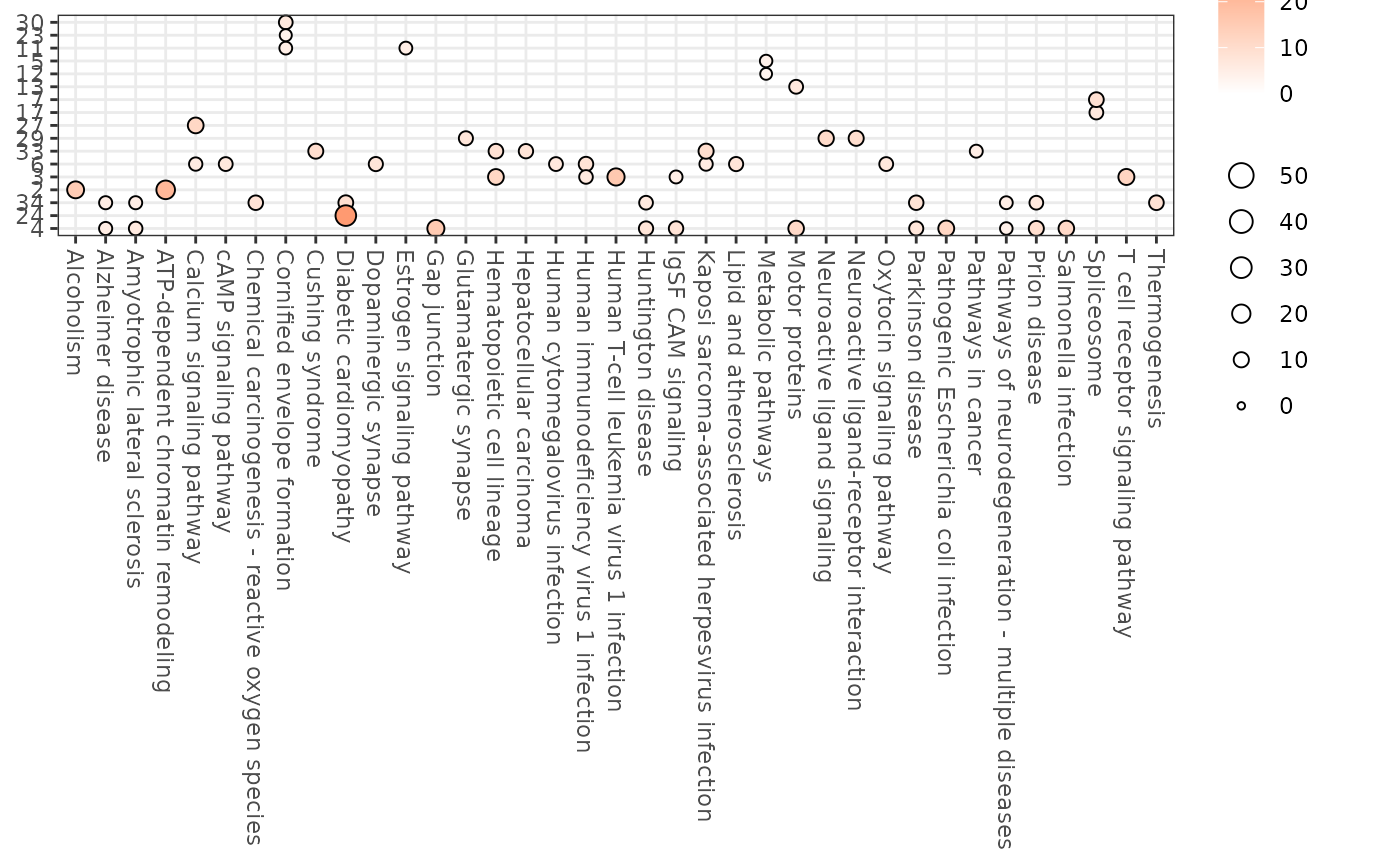
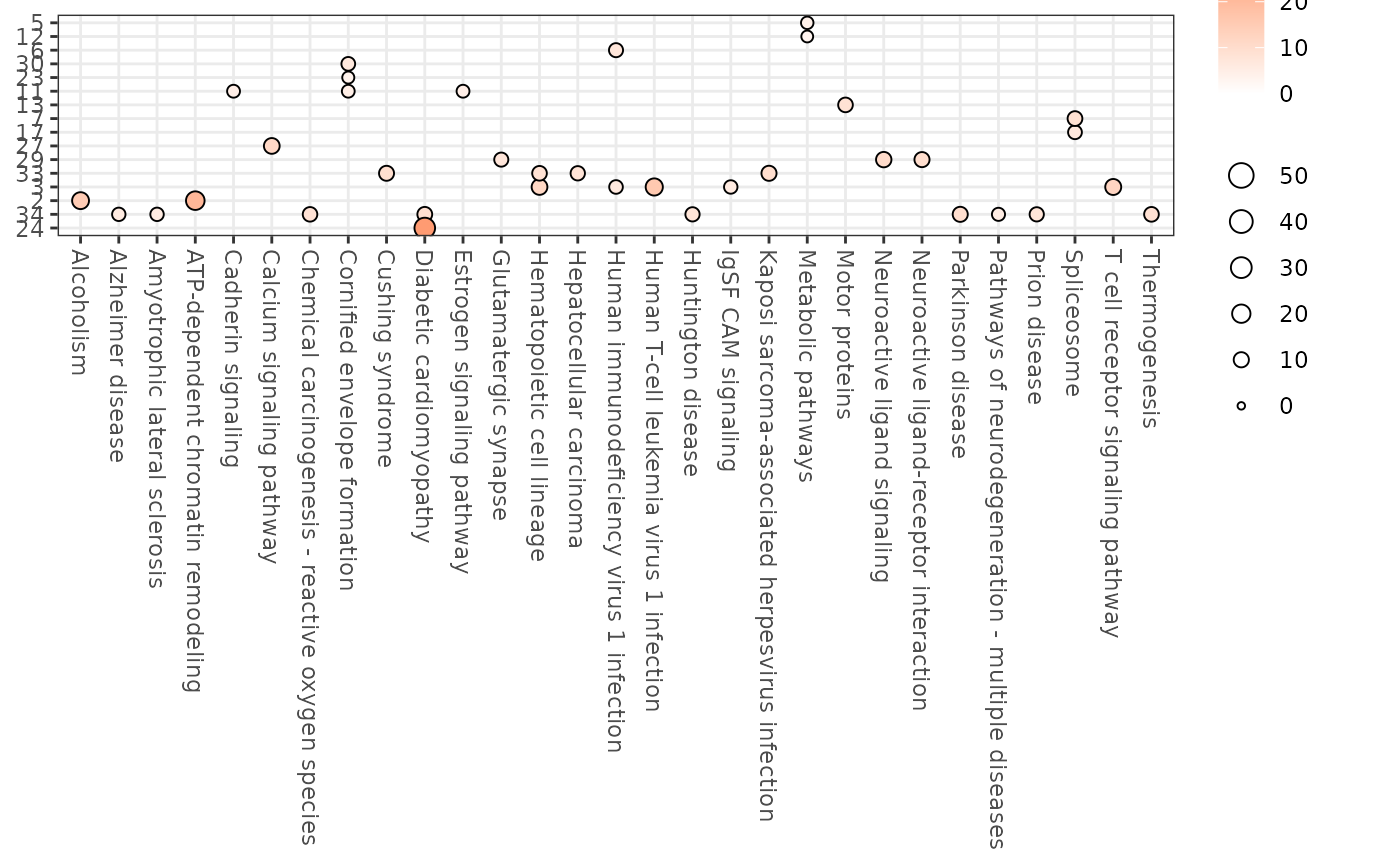
Deploying to gh-pages from @ buenoalvezm/HPAclusteR@75dcef5863ef661dbaa54c94696e2b630d1dce05 🚀

diff --git a/articles/HPAclusteR.html b/articles/HPAclusteR.html
@@ -275,12 +275,12 @@ for further details.</p>
 <span><span class="co">#&gt; <span style="color: #949494;"># A tibble: 6 × 10</span></span></span>
 <span><span class="co">#&gt;   `Cluster ID` Database      `Term ID` Term          GeneRatio BgRatio `P-value`</span></span>
 <span><span class="co">#&gt;   <span style="color: #949494; font-style: italic;">&lt;chr&gt;</span>        <span style="color: #949494; font-style: italic;">&lt;chr&gt;</span>         <span style="color: #949494; font-style: italic;">&lt;chr&gt;</span>     <span style="color: #949494; font-style: italic;">&lt;chr&gt;</span>         <span style="color: #949494; font-style: italic;">&lt;chr&gt;</span>     <span style="color: #949494; font-style: italic;">&lt;chr&gt;</span>       <span style="color: #949494; font-style: italic;">&lt;dbl&gt;</span></span></span>
-<span><span class="co">#&gt; <span style="color: #BCBCBC;">1</span> 11           KEGG pathways hsa04382  Cornified en… 13/24     40/350    8.38<span style="color: #949494;">e</span><span style="color: #BB0000;">-8</span></span></span>
-<span><span class="co">#&gt; <span style="color: #BCBCBC;">2</span> 11           KEGG pathways hsa04915  Estrogen sig… 4/24      12/350    5.86<span style="color: #949494;">e</span><span style="color: #BB0000;">-3</span></span></span>
-<span><span class="co">#&gt; <span style="color: #BCBCBC;">3</span> 12           KEGG pathways hsa01100  Metabolic pa… 9/15      67/350    4.03<span style="color: #949494;">e</span><span style="color: #BB0000;">-4</span></span></span>
-<span><span class="co">#&gt; <span style="color: #BCBCBC;">4</span> 13           KEGG pathways hsa04814  Motor protei… 3/11      14/350    6.99<span style="color: #949494;">e</span><span style="color: #BB0000;">-3</span></span></span>
-<span><span class="co">#&gt; <span style="color: #BCBCBC;">5</span> 17           KEGG pathways hsa03040  Spliceosome   5/20      13/350    3.49<span style="color: #949494;">e</span><span style="color: #BB0000;">-4</span></span></span>
-<span><span class="co">#&gt; <span style="color: #BCBCBC;">6</span> 2            KEGG pathways hsa03082  ATP-dependen… 3/5       10/350    1.64<span style="color: #949494;">e</span><span style="color: #BB0000;">-4</span></span></span>
+<span><span class="co">#&gt; <span style="color: #BCBCBC;">1</span> 11           KEGG pathways hsa04382  Cornified en… 13/24     40/349    8.68<span style="color: #949494;">e</span><span style="color: #BB0000;">-8</span></span></span>
+<span><span class="co">#&gt; <span style="color: #BCBCBC;">2</span> 11           KEGG pathways hsa04519  Cadherin sig… 8/24      24/349    5.37<span style="color: #949494;">e</span><span style="color: #BB0000;">-5</span></span></span>
+<span><span class="co">#&gt; <span style="color: #BCBCBC;">3</span> 11           KEGG pathways hsa04915  Estrogen sig… 4/24      12/349    5.92<span style="color: #949494;">e</span><span style="color: #BB0000;">-3</span></span></span>
+<span><span class="co">#&gt; <span style="color: #BCBCBC;">4</span> 12           KEGG pathways hsa01100  Metabolic pa… 9/15      67/349    4.12<span style="color: #949494;">e</span><span style="color: #BB0000;">-4</span></span></span>
+<span><span class="co">#&gt; <span style="color: #BCBCBC;">5</span> 13           KEGG pathways hsa04814  Motor protei… 3/11      11/349    3.37<span style="color: #949494;">e</span><span style="color: #BB0000;">-3</span></span></span>
+<span><span class="co">#&gt; <span style="color: #BCBCBC;">6</span> 17           KEGG pathways hsa03040  Spliceosome   5/20      13/349    3.53<span style="color: #949494;">e</span><span style="color: #BB0000;">-4</span></span></span>
 <span><span class="co">#&gt; <span style="color: #949494;"># ℹ 3 more variables: `Adjusted P-value` &lt;dbl&gt;, `Gene IDs` &lt;chr&gt;,</span></span></span>
 <span><span class="co">#&gt; <span style="color: #949494;">#   `Gene names` &lt;chr&gt;</span></span></span>
 <span><span class="va">enrichment_res</span><span class="op">$</span><span class="va">bubblemap_kegg</span></span></code></pre></div>
@@ -370,9 +370,9 @@ is to show you how to use the package and its functions.</p>
 </blockquote>
 <div class="sourceCode" id="cb16"><pre class="downlit sourceCode r">
 <code class="sourceCode R"><span><span class="fu"><a href="https://rdrr.io/r/utils/sessionInfo.html" class="external-link">sessionInfo</a></span><span class="op">(</span><span class="op">)</span></span>
-<span><span class="co">#&gt; R version 4.5.2 (2025-10-31)</span></span>
+<span><span class="co">#&gt; R version 4.5.3 (2026-03-11)</span></span>
 <span><span class="co">#&gt; Platform: x86_64-pc-linux-gnu</span></span>
-<span><span class="co">#&gt; Running under: Ubuntu 24.04.3 LTS</span></span>
+<span><span class="co">#&gt; Running under: Ubuntu 24.04.4 LTS</span></span>
 <span><span class="co">#&gt; </span></span>
 <span><span class="co">#&gt; Matrix products: default</span></span>
 <span><span class="co">#&gt; BLAS:   /usr/lib/x86_64-linux-gnu/openblas-pthread/libblas.so.3 </span></span>
@@ -394,77 +394,77 @@ is to show you how to use the package and its functions.</p>
 <span><span class="co">#&gt; [1] HPAclusteR_1.0.0</span></span>
 <span><span class="co">#&gt; </span></span>
 <span><span class="co">#&gt; loaded via a namespace (and not attached):</span></span>
-<span><span class="co">#&gt;   [1] fs_1.6.6                matrixStats_1.5.0       spatstat.sparse_3.1-0  </span></span>
-<span><span class="co">#&gt;   [4] enrichplot_1.30.4       httr_1.4.7              RColorBrewer_1.1-3     </span></span>
-<span><span class="co">#&gt;   [7] prabclus_2.3-5          tools_4.5.2             sctransform_0.4.3      </span></span>
-<span><span class="co">#&gt;  [10] utf8_1.2.6              R6_2.6.1                lazyeval_0.2.2         </span></span>
-<span><span class="co">#&gt;  [13] uwot_0.2.4              withr_3.0.2             sp_2.2-0               </span></span>
-<span><span class="co">#&gt;  [16] GGally_2.4.0            gridExtra_2.3           progressr_0.18.0       </span></span>
-<span><span class="co">#&gt;  [19] cli_3.6.5               Biobase_2.70.0          textshaping_1.0.4      </span></span>
-<span><span class="co">#&gt;  [22] factoextra_1.0.7        spatstat.explore_3.7-0  fastDummies_1.7.5      </span></span>
+<span><span class="co">#&gt;   [1] fs_2.0.1                matrixStats_1.5.0       spatstat.sparse_3.1-0  </span></span>
+<span><span class="co">#&gt;   [4] enrichplot_1.30.5       httr_1.4.8              RColorBrewer_1.1-3     </span></span>
+<span><span class="co">#&gt;   [7] prabclus_2.3-5          tools_4.5.3             sctransform_0.4.3      </span></span>
+<span><span class="co">#&gt;  [10] utf8_1.2.6              R6_2.6.1                lazyeval_0.2.3         </span></span>
+<span><span class="co">#&gt;  [13] uwot_0.2.4              withr_3.0.2             sp_2.2-1               </span></span>
+<span><span class="co">#&gt;  [16] GGally_2.4.0            gridExtra_2.3           progressr_0.19.0       </span></span>
+<span><span class="co">#&gt;  [19] cli_3.6.5               Biobase_2.70.0          textshaping_1.0.5      </span></span>
+<span><span class="co">#&gt;  [22] factoextra_2.0.0        spatstat.explore_3.8-0  fastDummies_1.7.5      </span></span>
 <span><span class="co">#&gt;  [25] network_1.20.0          scatterpie_0.2.6        slam_0.1-55            </span></span>
 <span><span class="co">#&gt;  [28] labeling_0.4.3          sass_0.4.10             diptest_0.77-2         </span></span>
-<span><span class="co">#&gt;  [31] Seurat_5.4.0            tm_0.7-17               S7_0.2.1               </span></span>
-<span><span class="co">#&gt;  [34] robustbase_0.99-7       spatstat.data_3.1-9     readr_2.1.6            </span></span>
+<span><span class="co">#&gt;  [31] Seurat_5.4.0            tm_0.7-18               S7_0.2.1               </span></span>
+<span><span class="co">#&gt;  [34] robustbase_0.99-7       spatstat.data_3.1-9     readr_2.2.0            </span></span>
 <span><span class="co">#&gt;  [37] askpass_1.2.1           ggridges_0.5.7          pbapply_1.7-4          </span></span>
-<span><span class="co">#&gt;  [40] pkgdown_2.2.0           systemfonts_1.3.1       yulab.utils_0.2.4      </span></span>
+<span><span class="co">#&gt;  [40] pkgdown_2.2.0           systemfonts_1.3.2       yulab.utils_0.2.4      </span></span>
 <span><span class="co">#&gt;  [43] gson_0.1.0              DOSE_4.4.0              R.utils_2.13.0         </span></span>
 <span><span class="co">#&gt;  [46] parallelly_1.46.1       RSQLite_2.4.6           treemap_2.4-4          </span></span>
 <span><span class="co">#&gt;  [49] generics_0.1.4          gridGraphics_0.5-1      ica_1.0-3              </span></span>
-<span><span class="co">#&gt;  [52] spatstat.random_3.4-4   dplyr_1.2.0             GO.db_3.22.0           </span></span>
-<span><span class="co">#&gt;  [55] Matrix_1.7-4            S4Vectors_0.48.0        abind_1.4-8            </span></span>
+<span><span class="co">#&gt;  [52] spatstat.random_3.4-5   dplyr_1.2.1             GO.db_3.22.0           </span></span>
+<span><span class="co">#&gt;  [55] Matrix_1.7-4            S4Vectors_0.48.1        abind_1.4-8            </span></span>
 <span><span class="co">#&gt;  [58] R.methodsS3_1.8.2       lifecycle_1.0.5         yaml_2.3.12            </span></span>
-<span><span class="co">#&gt;  [61] qvalue_2.42.0           Rtsne_0.17              grid_4.5.2             </span></span>
+<span><span class="co">#&gt;  [61] qvalue_2.42.0           Rtsne_0.17              grid_4.5.3             </span></span>
 <span><span class="co">#&gt;  [64] blob_1.3.0              promises_1.5.0          crayon_1.5.3           </span></span>
-<span><span class="co">#&gt;  [67] miniUI_0.1.2            ggtangle_0.1.1          lattice_0.22-7         </span></span>
+<span><span class="co">#&gt;  [67] miniUI_0.1.2            ggtangle_0.1.1          lattice_0.22-9         </span></span>
 <span><span class="co">#&gt;  [70] cowplot_1.2.0           KEGGREST_1.50.0         sna_2.8                </span></span>
 <span><span class="co">#&gt;  [73] pillar_1.11.1           knitr_1.51              fgsea_1.36.2           </span></span>
-<span><span class="co">#&gt;  [76] fpc_2.2-14              future.apply_1.20.1     codetools_0.2-20       </span></span>
-<span><span class="co">#&gt;  [79] fastmatch_1.1-8         glue_1.8.0              ggiraph_0.9.4          </span></span>
-<span><span class="co">#&gt;  [82] V8_8.0.1                ggfun_0.2.0             spatstat.univar_3.1-6  </span></span>
+<span><span class="co">#&gt;  [76] fpc_2.2-14              future.apply_1.20.2     codetools_0.2-20       </span></span>
+<span><span class="co">#&gt;  [79] fastmatch_1.1-8         glue_1.8.0              ggiraph_0.9.6          </span></span>
+<span><span class="co">#&gt;  [82] V8_8.0.1                ggfun_0.2.0             spatstat.univar_3.1-7  </span></span>
 <span><span class="co">#&gt;  [85] fontLiberation_0.1.0    pcaMethods_2.2.0        data.table_1.18.2.1    </span></span>
-<span><span class="co">#&gt;  [88] vctrs_0.7.1             png_0.1-8               treeio_1.34.0          </span></span>
+<span><span class="co">#&gt;  [88] vctrs_0.7.2             png_0.1-9               treeio_1.34.0          </span></span>
 <span><span class="co">#&gt;  [91] spam_2.11-3             gtable_0.3.6            kernlab_0.9-33         </span></span>
-<span><span class="co">#&gt;  [94] cachem_1.1.0            xfun_0.56               mime_0.13              </span></span>
-<span><span class="co">#&gt;  [97] Seqinfo_1.0.0           coda_0.19-4.1           survival_3.8-3         </span></span>
+<span><span class="co">#&gt;  [94] cachem_1.1.0            xfun_0.57               mime_0.13              </span></span>
+<span><span class="co">#&gt;  [97] Seqinfo_1.0.0           coda_0.19-4.1           survival_3.8-6         </span></span>
 <span><span class="co">#&gt; [100] pheatmap_1.0.13         fitdistrplus_1.2-6      ROCR_1.0-12            </span></span>
-<span><span class="co">#&gt; [103] nlme_3.1-168            ggtree_4.0.4            bit64_4.6.0-1          </span></span>
+<span><span class="co">#&gt; [103] nlme_3.1-168            ggtree_4.0.5            bit64_4.6.0-1          </span></span>
 <span><span class="co">#&gt; [106] fontquiver_0.2.1        RcppAnnoy_0.0.23        bslib_0.10.0           </span></span>
 <span><span class="co">#&gt; [109] irlba_2.3.7             KernSmooth_2.23-26      otel_0.2.0             </span></span>
 <span><span class="co">#&gt; [112] colorspace_2.1-2        rrvgo_1.22.0            BiocGenerics_0.56.0    </span></span>
-<span><span class="co">#&gt; [115] DBI_1.2.3               nnet_7.3-20             tidyselect_1.2.1       </span></span>
-<span><span class="co">#&gt; [118] bit_4.6.0               compiler_4.5.2          curl_7.0.0             </span></span>
+<span><span class="co">#&gt; [115] DBI_1.3.0               nnet_7.3-20             tidyselect_1.2.1       </span></span>
+<span><span class="co">#&gt; [118] bit_4.6.0               compiler_4.5.3          curl_7.0.0             </span></span>
 <span><span class="co">#&gt; [121] xml2_1.5.2              NLP_0.3-2               desc_1.4.3             </span></span>
 <span><span class="co">#&gt; [124] fontBitstreamVera_0.1.1 plotly_4.12.0           scales_1.4.0           </span></span>
 <span><span class="co">#&gt; [127] DEoptimR_1.1-4          lmtest_0.9-40           rappdirs_0.3.4         </span></span>
 <span><span class="co">#&gt; [130] stringr_1.6.0           digest_0.6.39           goftest_1.2-3          </span></span>
-<span><span class="co">#&gt; [133] spatstat.utils_3.2-1    rmarkdown_2.30          XVector_0.50.0         </span></span>
+<span><span class="co">#&gt; [133] spatstat.utils_3.2-2    rmarkdown_2.31          XVector_0.50.0         </span></span>
 <span><span class="co">#&gt; [136] htmltools_0.5.9         pkgconfig_2.0.3         umap_0.2.10.0          </span></span>
-<span><span class="co">#&gt; [139] fastmap_1.2.0           rlang_1.1.7             htmlwidgets_1.6.4      </span></span>
-<span><span class="co">#&gt; [142] shiny_1.12.1            farver_2.1.2            jquerylib_0.1.4        </span></span>
+<span><span class="co">#&gt; [139] fastmap_1.2.0           rlang_1.2.0             htmlwidgets_1.6.4      </span></span>
+<span><span class="co">#&gt; [142] shiny_1.13.0            farver_2.1.2            jquerylib_0.1.4        </span></span>
 <span><span class="co">#&gt; [145] zoo_1.8-15              jsonlite_2.0.0          statnet.common_4.13.0  </span></span>
 <span><span class="co">#&gt; [148] BiocParallel_1.44.0     mclust_6.1.2            GOSemSim_2.36.0        </span></span>
-<span><span class="co">#&gt; [151] R.oo_1.27.1             magrittr_2.0.4          modeltools_0.2-24      </span></span>
+<span><span class="co">#&gt; [151] R.oo_1.27.1             magrittr_2.0.5          modeltools_0.2-24      </span></span>
 <span><span class="co">#&gt; [154] ggplotify_0.1.3         wordcloud_2.6           dotCall64_1.2          </span></span>
 <span><span class="co">#&gt; [157] patchwork_1.3.2         Rcpp_1.1.1              ape_5.8-1              </span></span>
-<span><span class="co">#&gt; [160] ggnewscale_0.5.2        gdtools_0.5.0           reticulate_1.44.1      </span></span>
+<span><span class="co">#&gt; [160] ggnewscale_0.5.2        gdtools_0.5.0           reticulate_1.45.0      </span></span>
 <span><span class="co">#&gt; [163] stringi_1.8.7           MASS_7.3-65             org.Hs.eg.db_3.22.0    </span></span>
-<span><span class="co">#&gt; [166] plyr_1.8.9              flexmix_2.3-20          ggstats_0.12.0         </span></span>
-<span><span class="co">#&gt; [169] parallel_4.5.2          listenv_0.10.0          ggrepel_0.9.6          </span></span>
-<span><span class="co">#&gt; [172] deldir_2.0-4            Biostrings_2.78.0       splines_4.5.2          </span></span>
-<span><span class="co">#&gt; [175] tensor_1.5.1            hms_1.1.4               igraph_2.2.1           </span></span>
-<span><span class="co">#&gt; [178] spatstat.geom_3.7-0     RcppHNSW_0.6.0          reshape2_1.4.5         </span></span>
-<span><span class="co">#&gt; [181] stats4_4.5.2            evaluate_1.0.5          SeuratObject_5.3.0     </span></span>
-<span><span class="co">#&gt; [184] tzdb_0.5.0              tweenr_2.0.3            httpuv_1.6.16          </span></span>
-<span><span class="co">#&gt; [187] openssl_2.3.4           RANN_2.6.2              tidyr_1.3.2            </span></span>
-<span><span class="co">#&gt; [190] purrr_1.2.1             polyclip_1.10-7         future_1.69.0          </span></span>
-<span><span class="co">#&gt; [193] clue_0.3-66             scattermore_1.2         ggplot2_4.0.2          </span></span>
-<span><span class="co">#&gt; [196] gridBase_0.4-7          ggforce_0.5.0           xtable_1.8-4           </span></span>
+<span><span class="co">#&gt; [166] plyr_1.8.9              flexmix_2.3-20          ggstats_0.13.0         </span></span>
+<span><span class="co">#&gt; [169] parallel_4.5.3          listenv_0.10.1          ggrepel_0.9.8          </span></span>
+<span><span class="co">#&gt; [172] deldir_2.0-4            Biostrings_2.78.0       splines_4.5.3          </span></span>
+<span><span class="co">#&gt; [175] tensor_1.5.1            hms_1.1.4               igraph_2.2.2           </span></span>
+<span><span class="co">#&gt; [178] spatstat.geom_3.7-3     RcppHNSW_0.6.0          reshape2_1.4.5         </span></span>
+<span><span class="co">#&gt; [181] stats4_4.5.3            evaluate_1.0.5          SeuratObject_5.3.0     </span></span>
+<span><span class="co">#&gt; [184] tzdb_0.5.0              tweenr_2.0.3            httpuv_1.6.17          </span></span>
+<span><span class="co">#&gt; [187] openssl_2.3.5           RANN_2.6.2              tidyr_1.3.2            </span></span>
+<span><span class="co">#&gt; [190] purrr_1.2.1             polyclip_1.10-7         future_1.70.0          </span></span>
+<span><span class="co">#&gt; [193] clue_0.3-68             scattermore_1.2         ggplot2_4.0.2          </span></span>
+<span><span class="co">#&gt; [196] gridBase_0.4-7          ggforce_0.5.0           xtable_1.8-8           </span></span>
 <span><span class="co">#&gt; [199] RSpectra_0.16-2         tidytree_0.4.7          tidydr_0.0.6           </span></span>
-<span><span class="co">#&gt; [202] later_1.4.5             viridisLite_0.4.3       class_7.3-23           </span></span>
-<span><span class="co">#&gt; [205] ragg_1.5.0              tibble_3.3.1            clusterProfiler_4.18.4 </span></span>
+<span><span class="co">#&gt; [202] later_1.4.8             viridisLite_0.4.3       class_7.3-23           </span></span>
+<span><span class="co">#&gt; [205] ragg_1.5.2              tibble_3.3.1            clusterProfiler_4.18.4 </span></span>
 <span><span class="co">#&gt; [208] aplot_0.2.9             memoise_2.0.1           AnnotationDbi_1.72.0   </span></span>
-<span><span class="co">#&gt; [211] IRanges_2.44.0          cluster_2.1.8.1         globals_0.19.0         </span></span>
+<span><span class="co">#&gt; [211] IRanges_2.44.0          cluster_2.1.8.2         globals_0.19.1         </span></span>
 <span><span class="co">#&gt; [214] concaveman_1.2.0</span></span></code></pre></div>
 </div>
   </main><aside class="col-md-3"><nav id="toc" aria-label="Table of contents"><h2>On this page</h2>

diff --git a/reference/hc_annotate.html b/reference/hc_annotate.html
@@ -145,18 +145,19 @@ Set verbose = TRUE to monitor the progress.</p>
 <span class="r-msg co"><span class="r-pr">#&gt;</span> No KEGG enrichment result for cluster: 9</span>
 <span class="r-msg co"><span class="r-pr">#&gt;</span> No KEGG enrichment result for cluster: 31</span>
 <span class="r-msg co"><span class="r-pr">#&gt;</span> No KEGG enrichment result for cluster: 23</span>
+<span class="r-msg co"><span class="r-pr">#&gt;</span> No KEGG enrichment result for cluster: 15</span>
 <span class="r-msg co"><span class="r-pr">#&gt;</span> No KEGG enrichment result for cluster: 24</span>
 <span class="r-msg co"><span class="r-pr">#&gt;</span> No KEGG enrichment result for cluster: 8</span>
 <span class="r-msg co"><span class="r-pr">#&gt;</span> No KEGG enrichment result for cluster: 28</span>
 <span class="r-msg co"><span class="r-pr">#&gt;</span> No KEGG enrichment result for cluster: 10</span>
 <span class="r-msg co"><span class="r-pr">#&gt;</span> No KEGG enrichment result for cluster: 1</span>
-<span class="r-msg co"><span class="r-pr">#&gt;</span> No KEGG enrichment result for cluster: 20</span>
 <span class="r-msg co"><span class="r-pr">#&gt;</span> No KEGG enrichment result for cluster: 6</span>
 <span class="r-msg co"><span class="r-pr">#&gt;</span> No KEGG enrichment result for cluster: 25</span>
 <span class="r-msg co"><span class="r-pr">#&gt;</span> No KEGG enrichment result for cluster: 4</span>
 <span class="r-msg co"><span class="r-pr">#&gt;</span> No KEGG enrichment result for cluster: 11</span>
 <span class="r-msg co"><span class="r-pr">#&gt;</span> No KEGG enrichment result for cluster: 18</span>
 <span class="r-msg co"><span class="r-pr">#&gt;</span> No KEGG enrichment result for cluster: 30</span>
+<span class="r-msg co"><span class="r-pr">#&gt;</span> No KEGG enrichment result for cluster: 16</span>
 <span class="r-msg co"><span class="r-pr">#&gt;</span> 'select()' returned 1:many mapping between keys and columns</span>
 <span class="r-msg co"><span class="r-pr">#&gt;</span> KEGG enrichment done.</span>
 <span class="r-msg co"><span class="r-pr">#&gt;</span> 'select()' returned 1:many mapping between keys and columns</span>
@@ -164,12 +165,12 @@ Set verbose = TRUE to monitor the progress.</p>
 <span class="r-out co"><span class="r-pr">#&gt;</span> <span style="color: #949494;"># A tibble: 6 × 10</span></span>
 <span class="r-out co"><span class="r-pr">#&gt;</span>   `Cluster ID` Database      `Term ID` Term          GeneRatio BgRatio `P-value`</span>
 <span class="r-out co"><span class="r-pr">#&gt;</span>   <span style="color: #949494; font-style: italic;">&lt;chr&gt;</span>        <span style="color: #949494; font-style: italic;">&lt;chr&gt;</span>         <span style="color: #949494; font-style: italic;">&lt;chr&gt;</span>     <span style="color: #949494; font-style: italic;">&lt;chr&gt;</span>         <span style="color: #949494; font-style: italic;">&lt;chr&gt;</span>     <span style="color: #949494; font-style: italic;">&lt;chr&gt;</span>       <span style="color: #949494; font-style: italic;">&lt;dbl&gt;</span></span>
-<span class="r-out co"><span class="r-pr">#&gt;</span> <span style="color: #BCBCBC;">1</span> 14           KEGG pathways hsa03040  Spliceosome   8/27      13/350    4.30<span style="color: #949494;">e</span><span style="color: #BB0000;">-7</span></span>
-<span class="r-out co"><span class="r-pr">#&gt;</span> <span style="color: #BCBCBC;">2</span> 15           KEGG pathways hsa01100  Metabolic pa… 6/11      67/350    8.29<span style="color: #949494;">e</span><span style="color: #BB0000;">-3</span></span>
-<span class="r-out co"><span class="r-pr">#&gt;</span> <span style="color: #BCBCBC;">3</span> 16           KEGG pathways hsa05020  Prion disease 5/9       20/350    3.96<span style="color: #949494;">e</span><span style="color: #BB0000;">-5</span></span>
-<span class="r-out co"><span class="r-pr">#&gt;</span> <span style="color: #BCBCBC;">4</span> 16           KEGG pathways hsa04540  Gap junction  4/9       10/350    4.01<span style="color: #949494;">e</span><span style="color: #BB0000;">-5</span></span>
-<span class="r-out co"><span class="r-pr">#&gt;</span> <span style="color: #BCBCBC;">5</span> 16           KEGG pathways hsa05130  Pathogenic E… 4/9       13/350    1.32<span style="color: #949494;">e</span><span style="color: #BB0000;">-4</span></span>
-<span class="r-out co"><span class="r-pr">#&gt;</span> <span style="color: #BCBCBC;">6</span> 16           KEGG pathways hsa04814  Motor protei… 4/9       14/350    1.83<span style="color: #949494;">e</span><span style="color: #BB0000;">-4</span></span>
+<span class="r-out co"><span class="r-pr">#&gt;</span> <span style="color: #BCBCBC;">1</span> 14           KEGG pathways hsa03040  Spliceosome   8/27      13/349   4.40<span style="color: #949494;">e</span><span style="color: #BB0000;">- 7</span></span>
+<span class="r-out co"><span class="r-pr">#&gt;</span> <span style="color: #BCBCBC;">2</span> 17           KEGG pathways hsa04382  Cornified en… 14/16     40/349   6.84<span style="color: #949494;">e</span><span style="color: #BB0000;">-13</span></span>
+<span class="r-out co"><span class="r-pr">#&gt;</span> <span style="color: #BCBCBC;">3</span> 2            KEGG pathways hsa04660  T cell recep… 6/11      13/349   3.02<span style="color: #949494;">e</span><span style="color: #BB0000;">- 7</span></span>
+<span class="r-out co"><span class="r-pr">#&gt;</span> <span style="color: #BCBCBC;">4</span> 2            KEGG pathways hsa04640  Hematopoieti… 4/11      11/349   1.60<span style="color: #949494;">e</span><span style="color: #BB0000;">- 4</span></span>
+<span class="r-out co"><span class="r-pr">#&gt;</span> <span style="color: #BCBCBC;">5</span> 2            KEGG pathways hsa05166  Human T-cell… 4/11      12/349   2.36<span style="color: #949494;">e</span><span style="color: #BB0000;">- 4</span></span>
+<span class="r-out co"><span class="r-pr">#&gt;</span> <span style="color: #BCBCBC;">6</span> 2            KEGG pathways hsa05170  Human immuno… 3/11      15/349   8.65<span style="color: #949494;">e</span><span style="color: #BB0000;">- 3</span></span>
 <span class="r-out co"><span class="r-pr">#&gt;</span> <span style="color: #949494;"># ℹ 3 more variables: `Adjusted P-value` &lt;dbl&gt;, `Gene IDs` &lt;chr&gt;,</span></span>
 <span class="r-out co"><span class="r-pr">#&gt;</span> <span style="color: #949494;">#   `Gene names` &lt;chr&gt;</span></span>
 </code></pre></div>

diff --git a/articles/HPAclusteR.md b/articles/HPAclusteR.md
@@ -214,12 +214,12 @@ head(enrichment_res$enrichment)
 #> # A tibble: 6 × 10
 #>   `Cluster ID` Database      `Term ID` Term          GeneRatio BgRatio `P-value`
 #>   <chr>        <chr>         <chr>     <chr>         <chr>     <chr>       <dbl>
-#> 1 11           KEGG pathways hsa04382  Cornified en… 13/24     40/350    8.38e-8
-#> 2 11           KEGG pathways hsa04915  Estrogen sig… 4/24      12/350    5.86e-3
-#> 3 12           KEGG pathways hsa01100  Metabolic pa… 9/15      67/350    4.03e-4
-#> 4 13           KEGG pathways hsa04814  Motor protei… 3/11      14/350    6.99e-3
-#> 5 17           KEGG pathways hsa03040  Spliceosome   5/20      13/350    3.49e-4
-#> 6 2            KEGG pathways hsa03082  ATP-dependen… 3/5       10/350    1.64e-4
+#> 1 11           KEGG pathways hsa04382  Cornified en… 13/24     40/349    8.68e-8
+#> 2 11           KEGG pathways hsa04519  Cadherin sig… 8/24      24/349    5.37e-5
+#> 3 11           KEGG pathways hsa04915  Estrogen sig… 4/24      12/349    5.92e-3
+#> 4 12           KEGG pathways hsa01100  Metabolic pa… 9/15      67/349    4.12e-4
+#> 5 13           KEGG pathways hsa04814  Motor protei… 3/11      11/349    3.37e-3
+#> 6 17           KEGG pathways hsa03040  Spliceosome   5/20      13/349    3.53e-4
 #> # ℹ 3 more variables: `Adjusted P-value` <dbl>, `Gene IDs` <chr>,
 #> #   `Gene names` <chr>
 enrichment_res$bubblemap_kegg
@@ -331,9 +331,9 @@ transcriptomics data!
 
 ``` r
 sessionInfo()
-#> R version 4.5.2 (2025-10-31)
+#> R version 4.5.3 (2026-03-11)
 #> Platform: x86_64-pc-linux-gnu
-#> Running under: Ubuntu 24.04.3 LTS
+#> Running under: Ubuntu 24.04.4 LTS
 #> 
 #> Matrix products: default
 #> BLAS:   /usr/lib/x86_64-linux-gnu/openblas-pthread/libblas.so.3 
@@ -355,76 +355,76 @@ sessionInfo()
 #> [1] HPAclusteR_1.0.0
 #> 
 #> loaded via a namespace (and not attached):
-#>   [1] fs_1.6.6                matrixStats_1.5.0       spatstat.sparse_3.1-0  
-#>   [4] enrichplot_1.30.4       httr_1.4.7              RColorBrewer_1.1-3     
-#>   [7] prabclus_2.3-5          tools_4.5.2             sctransform_0.4.3      
-#>  [10] utf8_1.2.6              R6_2.6.1                lazyeval_0.2.2         
-#>  [13] uwot_0.2.4              withr_3.0.2             sp_2.2-0               
-#>  [16] GGally_2.4.0            gridExtra_2.3           progressr_0.18.0       
-#>  [19] cli_3.6.5               Biobase_2.70.0          textshaping_1.0.4      
-#>  [22] factoextra_1.0.7        spatstat.explore_3.7-0  fastDummies_1.7.5      
+#>   [1] fs_2.0.1                matrixStats_1.5.0       spatstat.sparse_3.1-0  
+#>   [4] enrichplot_1.30.5       httr_1.4.8              RColorBrewer_1.1-3     
+#>   [7] prabclus_2.3-5          tools_4.5.3             sctransform_0.4.3      
+#>  [10] utf8_1.2.6              R6_2.6.1                lazyeval_0.2.3         
+#>  [13] uwot_0.2.4              withr_3.0.2             sp_2.2-1               
+#>  [16] GGally_2.4.0            gridExtra_2.3           progressr_0.19.0       
+#>  [19] cli_3.6.5               Biobase_2.70.0          textshaping_1.0.5      
+#>  [22] factoextra_2.0.0        spatstat.explore_3.8-0  fastDummies_1.7.5      
 #>  [25] network_1.20.0          scatterpie_0.2.6        slam_0.1-55            
 #>  [28] labeling_0.4.3          sass_0.4.10             diptest_0.77-2         
-#>  [31] Seurat_5.4.0            tm_0.7-17               S7_0.2.1               
-#>  [34] robustbase_0.99-7       spatstat.data_3.1-9     readr_2.1.6            
+#>  [31] Seurat_5.4.0            tm_0.7-18               S7_0.2.1               
+#>  [34] robustbase_0.99-7       spatstat.data_3.1-9     readr_2.2.0            
 #>  [37] askpass_1.2.1           ggridges_0.5.7          pbapply_1.7-4          
-#>  [40] pkgdown_2.2.0           systemfonts_1.3.1       yulab.utils_0.2.4      
+#>  [40] pkgdown_2.2.0           systemfonts_1.3.2       yulab.utils_0.2.4      
 #>  [43] gson_0.1.0              DOSE_4.4.0              R.utils_2.13.0         
 #>  [46] parallelly_1.46.1       RSQLite_2.4.6           treemap_2.4-4          
 #>  [49] generics_0.1.4          gridGraphics_0.5-1      ica_1.0-3              
-#>  [52] spatstat.random_3.4-4   dplyr_1.2.0             GO.db_3.22.0           
-#>  [55] Matrix_1.7-4            S4Vectors_0.48.0        abind_1.4-8            
+#>  [52] spatstat.random_3.4-5   dplyr_1.2.1             GO.db_3.22.0           
+#>  [55] Matrix_1.7-4            S4Vectors_0.48.1        abind_1.4-8            
 #>  [58] R.methodsS3_1.8.2       lifecycle_1.0.5         yaml_2.3.12            
-#>  [61] qvalue_2.42.0           Rtsne_0.17              grid_4.5.2             
+#>  [61] qvalue_2.42.0           Rtsne_0.17              grid_4.5.3             
 #>  [64] blob_1.3.0              promises_1.5.0          crayon_1.5.3           
-#>  [67] miniUI_0.1.2            ggtangle_0.1.1          lattice_0.22-7         
+#>  [67] miniUI_0.1.2            ggtangle_0.1.1          lattice_0.22-9         
 #>  [70] cowplot_1.2.0           KEGGREST_1.50.0         sna_2.8                
 #>  [73] pillar_1.11.1           knitr_1.51              fgsea_1.36.2           
-#>  [76] fpc_2.2-14              future.apply_1.20.1     codetools_0.2-20       
-#>  [79] fastmatch_1.1-8         glue_1.8.0              ggiraph_0.9.4          
-#>  [82] V8_8.0.1                ggfun_0.2.0             spatstat.univar_3.1-6  
+#>  [76] fpc_2.2-14              future.apply_1.20.2     codetools_0.2-20       
+#>  [79] fastmatch_1.1-8         glue_1.8.0              ggiraph_0.9.6          
+#>  [82] V8_8.0.1                ggfun_0.2.0             spatstat.univar_3.1-7  
 #>  [85] fontLiberation_0.1.0    pcaMethods_2.2.0        data.table_1.18.2.1    
-#>  [88] vctrs_0.7.1             png_0.1-8               treeio_1.34.0          
+#>  [88] vctrs_0.7.2             png_0.1-9               treeio_1.34.0          
 #>  [91] spam_2.11-3             gtable_0.3.6            kernlab_0.9-33         
-#>  [94] cachem_1.1.0            xfun_0.56               mime_0.13              
-#>  [97] Seqinfo_1.0.0           coda_0.19-4.1           survival_3.8-3         
+#>  [94] cachem_1.1.0            xfun_0.57               mime_0.13              
+#>  [97] Seqinfo_1.0.0           coda_0.19-4.1           survival_3.8-6         
 #> [100] pheatmap_1.0.13         fitdistrplus_1.2-6      ROCR_1.0-12            
-#> [103] nlme_3.1-168            ggtree_4.0.4            bit64_4.6.0-1          
+#> [103] nlme_3.1-168            ggtree_4.0.5            bit64_4.6.0-1          
 #> [106] fontquiver_0.2.1        RcppAnnoy_0.0.23        bslib_0.10.0           
 #> [109] irlba_2.3.7             KernSmooth_2.23-26      otel_0.2.0             
 #> [112] colorspace_2.1-2        rrvgo_1.22.0            BiocGenerics_0.56.0    
-#> [115] DBI_1.2.3               nnet_7.3-20             tidyselect_1.2.1       
-#> [118] bit_4.6.0               compiler_4.5.2          curl_7.0.0             
+#> [115] DBI_1.3.0               nnet_7.3-20             tidyselect_1.2.1       
+#> [118] bit_4.6.0               compiler_4.5.3          curl_7.0.0             
 #> [121] xml2_1.5.2              NLP_0.3-2               desc_1.4.3             
 #> [124] fontBitstreamVera_0.1.1 plotly_4.12.0           scales_1.4.0           
 #> [127] DEoptimR_1.1-4          lmtest_0.9-40           rappdirs_0.3.4         
 #> [130] stringr_1.6.0           digest_0.6.39           goftest_1.2-3          
-#> [133] spatstat.utils_3.2-1    rmarkdown_2.30          XVector_0.50.0         
+#> [133] spatstat.utils_3.2-2    rmarkdown_2.31          XVector_0.50.0         
 #> [136] htmltools_0.5.9         pkgconfig_2.0.3         umap_0.2.10.0          
-#> [139] fastmap_1.2.0           rlang_1.1.7             htmlwidgets_1.6.4      
-#> [142] shiny_1.12.1            farver_2.1.2            jquerylib_0.1.4        
+#> [139] fastmap_1.2.0           rlang_1.2.0             htmlwidgets_1.6.4      
+#> [142] shiny_1.13.0            farver_2.1.2            jquerylib_0.1.4        
 #> [145] zoo_1.8-15              jsonlite_2.0.0          statnet.common_4.13.0  
 #> [148] BiocParallel_1.44.0     mclust_6.1.2            GOSemSim_2.36.0        
-#> [151] R.oo_1.27.1             magrittr_2.0.4          modeltools_0.2-24      
+#> [151] R.oo_1.27.1             magrittr_2.0.5          modeltools_0.2-24      
 #> [154] ggplotify_0.1.3         wordcloud_2.6           dotCall64_1.2          
 #> [157] patchwork_1.3.2         Rcpp_1.1.1              ape_5.8-1              
-#> [160] ggnewscale_0.5.2        gdtools_0.5.0           reticulate_1.44.1      
+#> [160] ggnewscale_0.5.2        gdtools_0.5.0           reticulate_1.45.0      
 #> [163] stringi_1.8.7           MASS_7.3-65             org.Hs.eg.db_3.22.0    
-#> [166] plyr_1.8.9              flexmix_2.3-20          ggstats_0.12.0         
-#> [169] parallel_4.5.2          listenv_0.10.0          ggrepel_0.9.6          
-#> [172] deldir_2.0-4            Biostrings_2.78.0       splines_4.5.2          
-#> [175] tensor_1.5.1            hms_1.1.4               igraph_2.2.1           
-#> [178] spatstat.geom_3.7-0     RcppHNSW_0.6.0          reshape2_1.4.5         
-#> [181] stats4_4.5.2            evaluate_1.0.5          SeuratObject_5.3.0     
-#> [184] tzdb_0.5.0              tweenr_2.0.3            httpuv_1.6.16          
-#> [187] openssl_2.3.4           RANN_2.6.2              tidyr_1.3.2            
-#> [190] purrr_1.2.1             polyclip_1.10-7         future_1.69.0          
-#> [193] clue_0.3-66             scattermore_1.2         ggplot2_4.0.2          
-#> [196] gridBase_0.4-7          ggforce_0.5.0           xtable_1.8-4           
+#> [166] plyr_1.8.9              flexmix_2.3-20          ggstats_0.13.0         
+#> [169] parallel_4.5.3          listenv_0.10.1          ggrepel_0.9.8          
+#> [172] deldir_2.0-4            Biostrings_2.78.0       splines_4.5.3          
+#> [175] tensor_1.5.1            hms_1.1.4               igraph_2.2.2           
+#> [178] spatstat.geom_3.7-3     RcppHNSW_0.6.0          reshape2_1.4.5         
+#> [181] stats4_4.5.3            evaluate_1.0.5          SeuratObject_5.3.0     
+#> [184] tzdb_0.5.0              tweenr_2.0.3            httpuv_1.6.17          
+#> [187] openssl_2.3.5           RANN_2.6.2              tidyr_1.3.2            
+#> [190] purrr_1.2.1             polyclip_1.10-7         future_1.70.0          
+#> [193] clue_0.3-68             scattermore_1.2         ggplot2_4.0.2          
+#> [196] gridBase_0.4-7          ggforce_0.5.0           xtable_1.8-8           
 #> [199] RSpectra_0.16-2         tidytree_0.4.7          tidydr_0.0.6           
-#> [202] later_1.4.5             viridisLite_0.4.3       class_7.3-23           
-#> [205] ragg_1.5.0              tibble_3.3.1            clusterProfiler_4.18.4 
+#> [202] later_1.4.8             viridisLite_0.4.3       class_7.3-23           
+#> [205] ragg_1.5.2              tibble_3.3.1            clusterProfiler_4.18.4 
 #> [208] aplot_0.2.9             memoise_2.0.1           AnnotationDbi_1.72.0   
-#> [211] IRanges_2.44.0          cluster_2.1.8.1         globals_0.19.0         
+#> [211] IRanges_2.44.0          cluster_2.1.8.2         globals_0.19.1         
 #> [214] concaveman_1.2.0
 ```

diff --git a/reference/hc_annotate.md b/reference/hc_annotate.md
@@ -133,18 +133,19 @@ enrichment_results <- hc_annotate(adata_res, dbs = "KEGG")
 #> No KEGG enrichment result for cluster: 9
 #> No KEGG enrichment result for cluster: 31
 #> No KEGG enrichment result for cluster: 23
+#> No KEGG enrichment result for cluster: 15
 #> No KEGG enrichment result for cluster: 24
 #> No KEGG enrichment result for cluster: 8
 #> No KEGG enrichment result for cluster: 28
 #> No KEGG enrichment result for cluster: 10
 #> No KEGG enrichment result for cluster: 1
-#> No KEGG enrichment result for cluster: 20
 #> No KEGG enrichment result for cluster: 6
 #> No KEGG enrichment result for cluster: 25
 #> No KEGG enrichment result for cluster: 4
 #> No KEGG enrichment result for cluster: 11
 #> No KEGG enrichment result for cluster: 18
 #> No KEGG enrichment result for cluster: 30
+#> No KEGG enrichment result for cluster: 16
 #> 'select()' returned 1:many mapping between keys and columns
 #> KEGG enrichment done.
 #> 'select()' returned 1:many mapping between keys and columns
@@ -152,12 +153,12 @@ head(enrichment_results$enrichment)
 #> # A tibble: 6 × 10
 #>   `Cluster ID` Database      `Term ID` Term          GeneRatio BgRatio `P-value`
 #>   <chr>        <chr>         <chr>     <chr>         <chr>     <chr>       <dbl>
-#> 1 14           KEGG pathways hsa03040  Spliceosome   8/27      13/350    4.30e-7
-#> 2 15           KEGG pathways hsa01100  Metabolic pa… 6/11      67/350    8.29e-3
-#> 3 16           KEGG pathways hsa05020  Prion disease 5/9       20/350    3.96e-5
-#> 4 16           KEGG pathways hsa04540  Gap junction  4/9       10/350    4.01e-5
-#> 5 16           KEGG pathways hsa05130  Pathogenic E… 4/9       13/350    1.32e-4
-#> 6 16           KEGG pathways hsa04814  Motor protei… 4/9       14/350    1.83e-4
+#> 1 14           KEGG pathways hsa03040  Spliceosome   8/27      13/349   4.40e- 7
+#> 2 17           KEGG pathways hsa04382  Cornified en… 14/16     40/349   6.84e-13
+#> 3 2            KEGG pathways hsa04660  T cell recep… 6/11      13/349   3.02e- 7
+#> 4 2            KEGG pathways hsa04640  Hematopoieti… 4/11      11/349   1.60e- 4
+#> 5 2            KEGG pathways hsa05166  Human T-cell… 4/11      12/349   2.36e- 4
+#> 6 2            KEGG pathways hsa05170  Human immuno… 3/11      15/349   8.65e- 3
 #> # ℹ 3 more variables: `Adjusted P-value` <dbl>, `Gene IDs` <chr>,
 #> #   `Gene names` <chr>
 ```